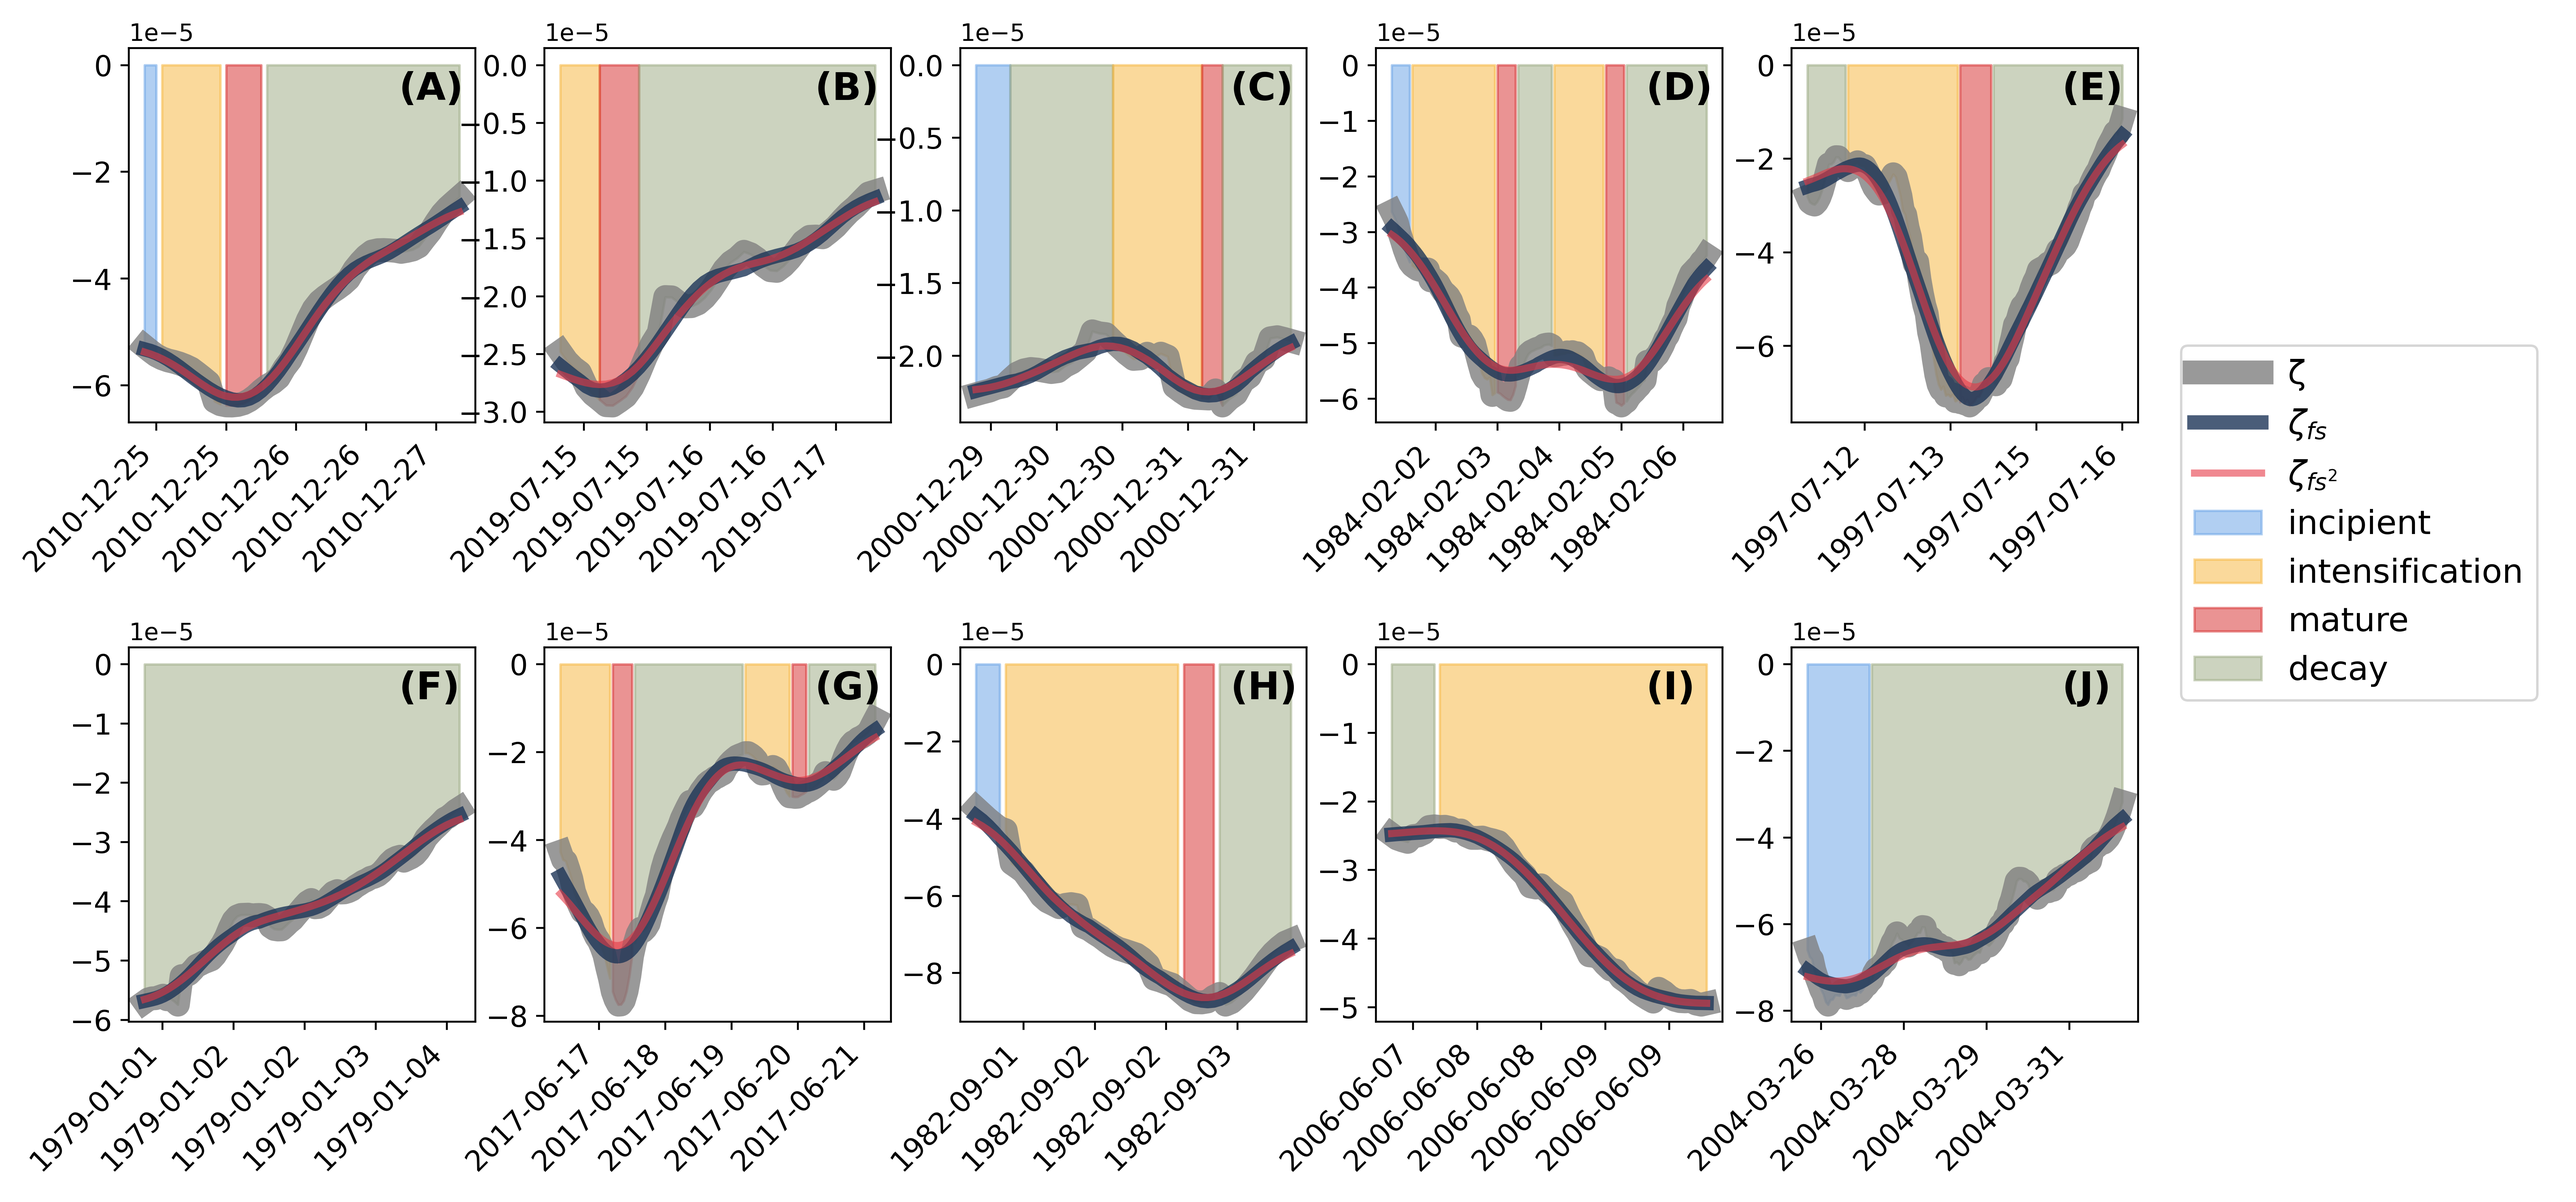
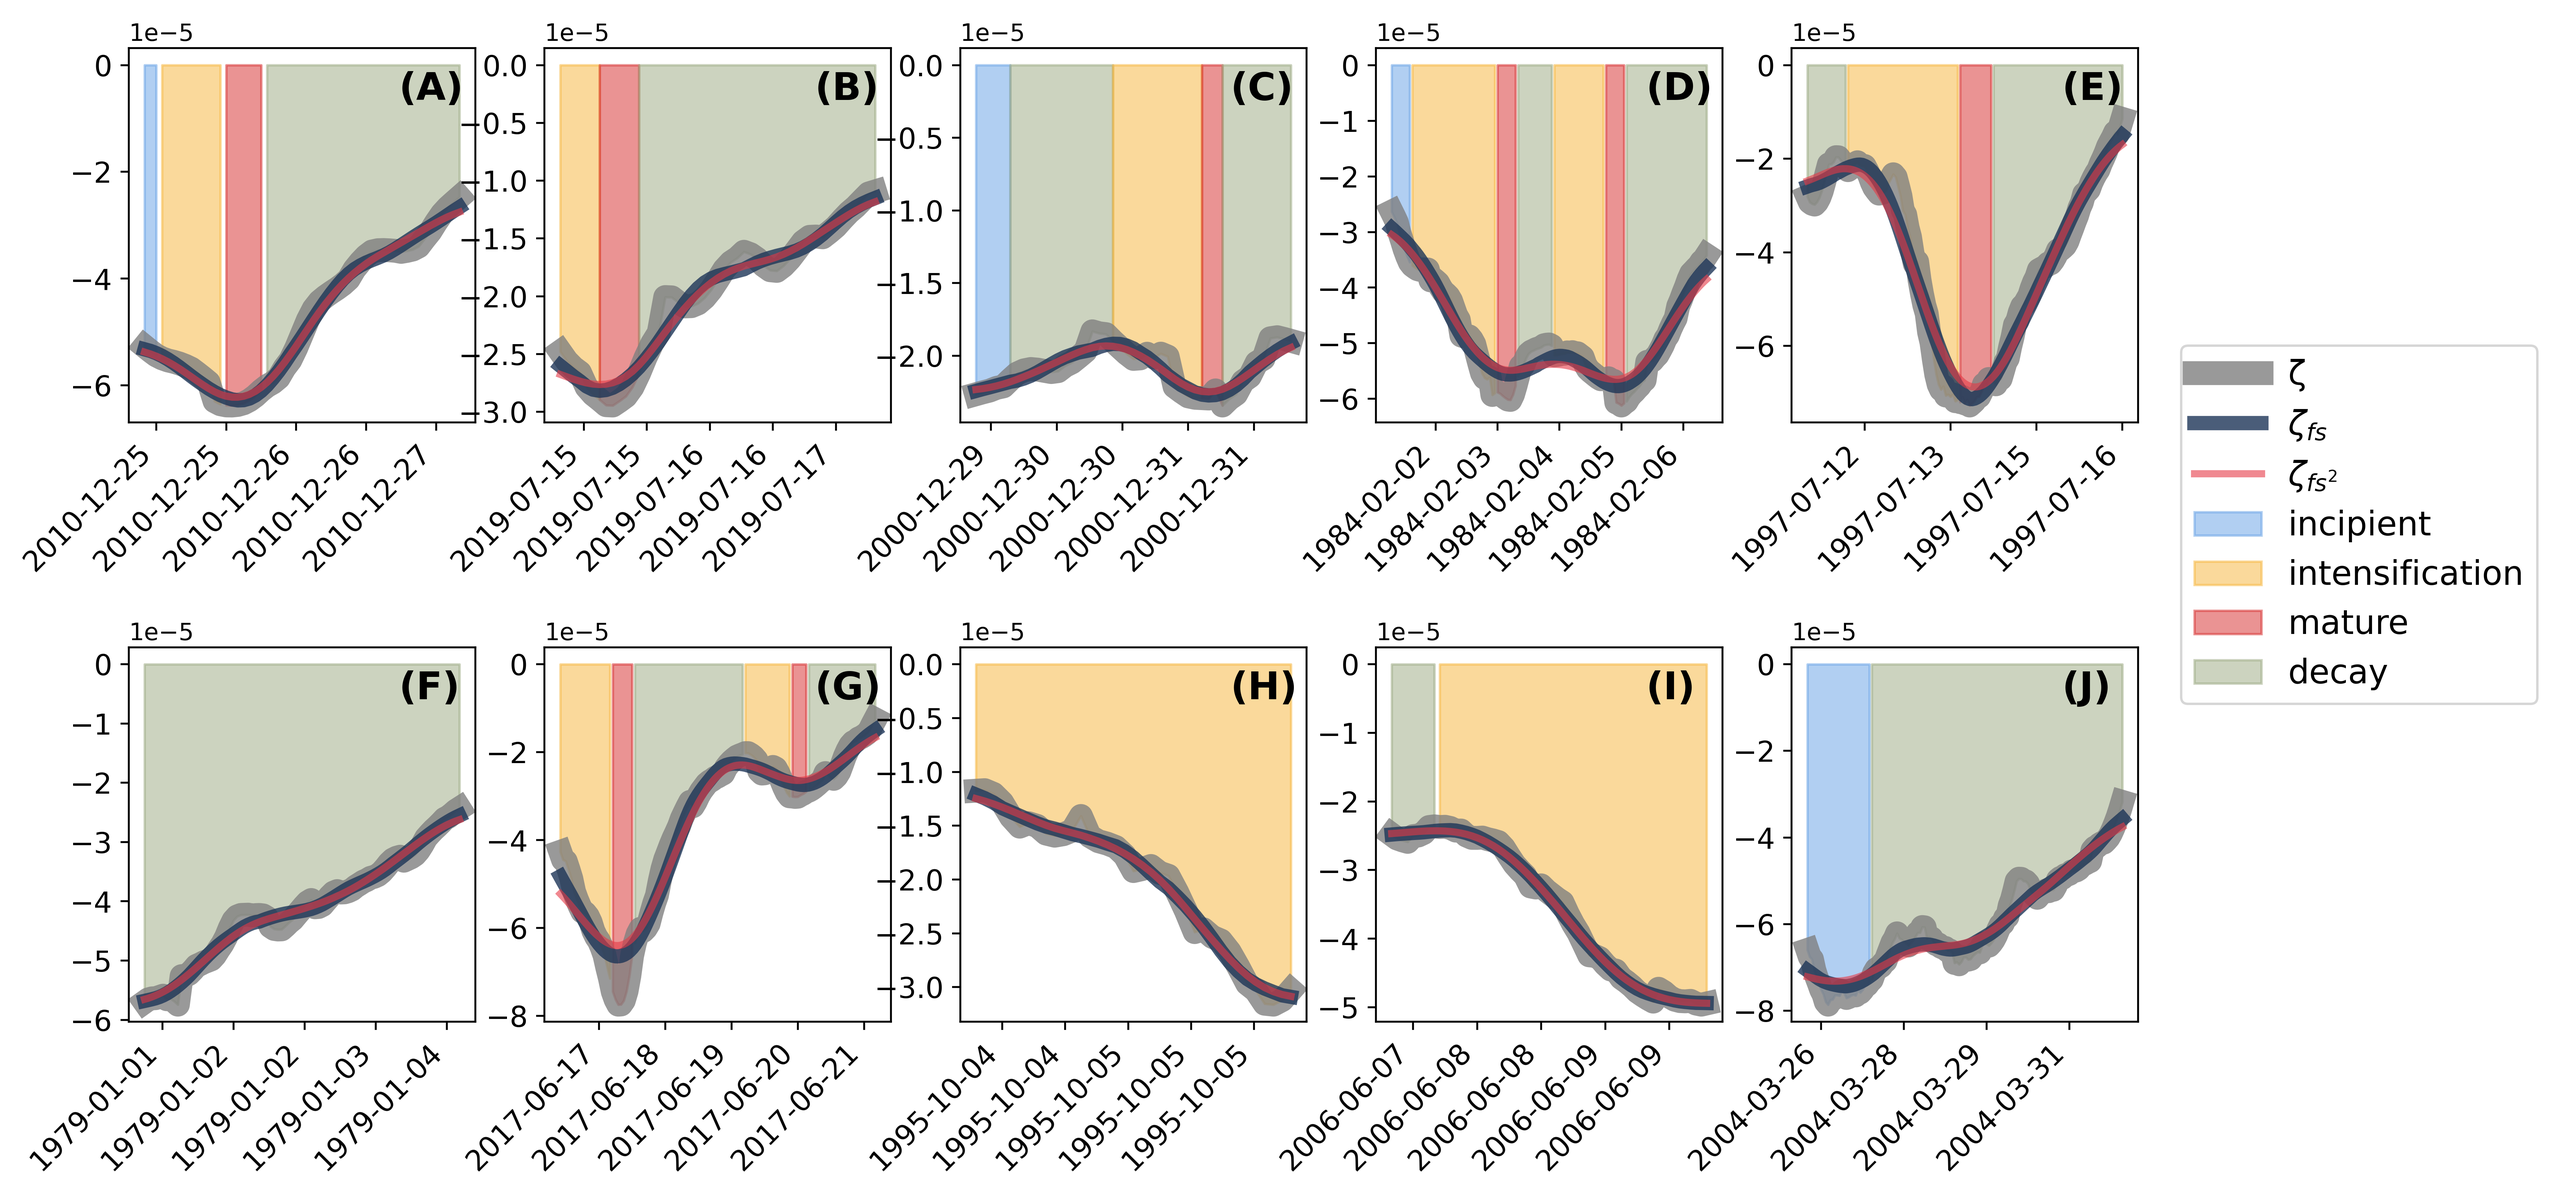
Updated It

diff --git a/src_manuscript_life-cycle/panel_relevant_species.py b/src_manuscript_life-cycle/panel_relevant_species.py
@@ -75,7 +75,7 @@ systems_for_representing = ['SAt_20101172', # Ic, It, M, D
                             'SAt_19970580', # D, It, M, D2
                             'SAt_19790004', # D
                             'SAt_20170528', # It, M, D, It2, M2, D2
-                            'SAt_19820786', # It
+                            'SAt_19950912', # It
                             'SAt_20060514', # D, It
                             'SAt_20040233', # Ic, D
                             ]   
